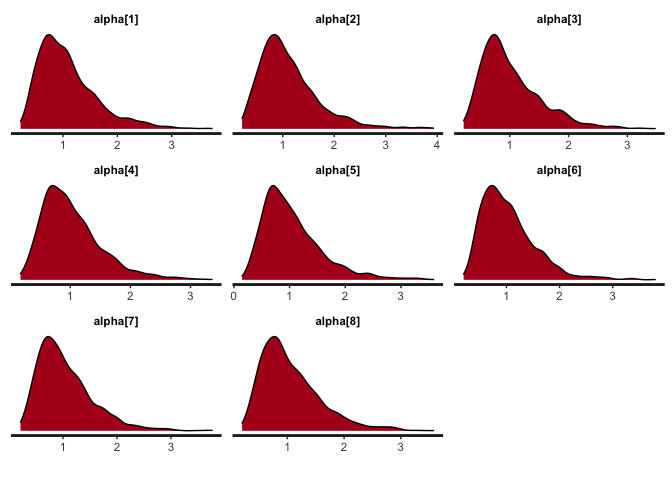
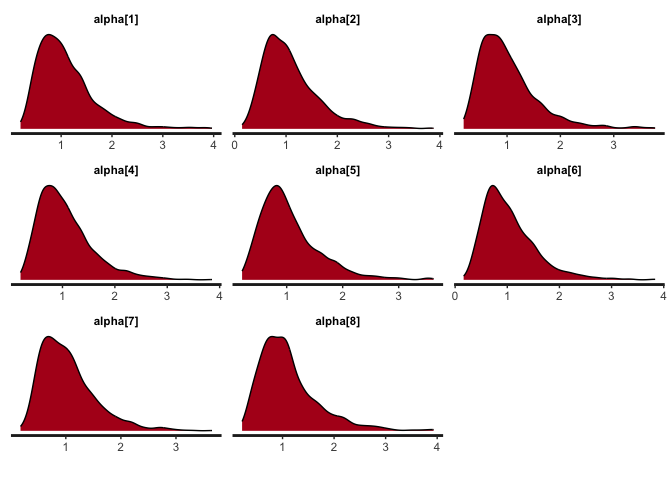
Add citation

diff --git a/README.md b/README.md
@@ -51,12 +51,13 @@ This is a basic example which shows you how to prepare data, fit the
 model, extract and plot results:
 
 ``` r
+
 library(fcirt)
 
 ## basic example code
 ## Step 1: Input data
 # 1.1 Response data in wide format. If the first statement is preferred, the data should be coded as 1, otherwise it should be coded as 2. 
-fcirt.Data <- c(1,2,2,1,1,1,1,1,NA,1,2,1,1,2,1,1,2,2,NA,2,2,2,1,1,1,2,1,1,1,1,2,1,1,1,2,1,1,2,1,1)
+fcirt.Data <- c(1,2,2,1,1,1,1,1,2,1,2,1,1,2,1,1,2,2,1,2,2,2,1,1,1,2,1,1,1,1,2,1,1,1,2,1,1,2,1,1)
 fcirt.Data <- matrix(fcirt.Data,nrow = 10)
 fcirt.Data
 #>       [,1] [,2] [,3] [,4]
@@ -68,7 +69,7 @@ fcirt.Data
 #>  [6,]    1    1    2    1
 #>  [7,]    1    2    1    1
 #>  [8,]    1    2    1    2
-#>  [9,]   NA   NA    1    1
+#>  [9,]    2    1    1    1
 #> [10,]    1    2    1    1
 
 # 1.2 A two-column data matrix: the first column is the statement number for statement s; the second column is the statement number for statement t.
@@ -111,25 +112,23 @@ theta <- matrix(theta, nrow=2)
 theta <- t(theta)
 # theta estimates in p*trait matrix format
 theta
-#>               [,1]         [,2]
-#>  [1,] -0.008846518 -0.020839511
-#>  [2,] -0.010909129  0.014170047
-#>  [3,]  0.039271194 -0.029510418
-#>  [4,]  0.053650150 -0.003515530
-#>  [5,] -0.014835090 -0.038893088
-#>  [6,] -0.029746453  0.003989843
-#>  [7,]  0.046490462  0.007792688
-#>  [8,]  0.027869493 -0.032391257
-#>  [9,]  0.027951501 -0.011935207
-#> [10,]  0.062773955 -0.012719476
+#>               [,1]        [,2]
+#>  [1,] -0.021775043 -0.01621198
+#>  [2,]  0.036778304 -0.04437585
+#>  [3,]  0.073992262 -0.03347397
+#>  [4,] -0.062757680  0.04176054
+#>  [5,] -0.014047680  0.10581396
+#>  [6,]  0.053138231 -0.04186083
+#>  [7,] -0.041420416  0.01026859
+#>  [8,] -0.020630012  0.02629694
+#>  [9,]  0.008953677 -0.03387754
+#> [10,] -0.049484518  0.03815921
 # 3.2 Extract the tau estimates
 tau <- extract(x=mod, pars='tau')
 tau <- tau[,1]
 tau
-#>     tau[1]     tau[2]     tau[3]     tau[4]     tau[5]     tau[6]     tau[7] 
-#> -2.0540455 -0.9805878 -1.2825280 -1.4354192 -1.7621815 -1.0457171 -1.8182223 
-#>     tau[8] 
-#> -1.0445483
+#>    tau[1]    tau[2]    tau[3]    tau[4]    tau[5]    tau[6]    tau[7]    tau[8] 
+#> -1.781350 -1.098091 -1.367964 -1.335510 -1.742235 -1.033777 -1.843409 -1.061522
 #3.3 Extract the estimates of the correlations among dimensions
 cor <- extract(x=mod, pars='cor')
 
@@ -148,13 +147,20 @@ bayesplot(x=mod, pars='alpha', plot='trace', inc_warmup=FALSE)
 <img src="man/figures/README-example-2.png" width="70%" />
 
 ``` r
+
 ## Step 5: Item information 
 # 5.1 Obtain item information for item 1-3
 OII <- information(x=mod, approach="direct", information="item", items=1:3)
 OII
-#> [1] 0.3915412 0.4035285 0.3920269
+#> [1] 0.4208212 0.4134691 0.3948281
 # 5.2 Obtain test information 
 OTI <- information(x=mod, approach="direct", information="test")
 OTI
-#> [1] 1.577941
+#> [1] 1.63136
 ```
+
+## Citation
+
+Tu, N., Joo, S., Lee, P., & Stark, S. (2025). fcirt: An R Package for
+Forced Choice Models in Item Response Theory. Applied Psychological
+Measurement, 01466216251378771.
